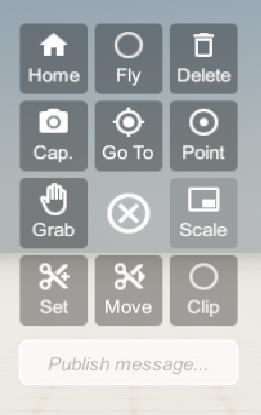
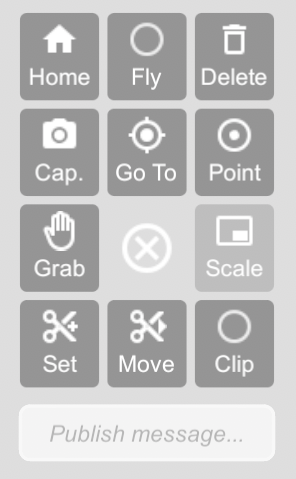
scale operation menu

diff --git a/docs/tutorial/Viewer_PC/documentation_rst/6_Operation_menu.rst b/docs/tutorial/Viewer_PC/documentation_rst/6_Operation_menu.rst
@@ -3,6 +3,9 @@ Operation Menu
 ****************
 
 .. image:: ../images/Menu_action_detail.png
+    :scale: 80%
+    :align: center
+    
 
 Open the Operation menu with a left click, close it with a right click
 
